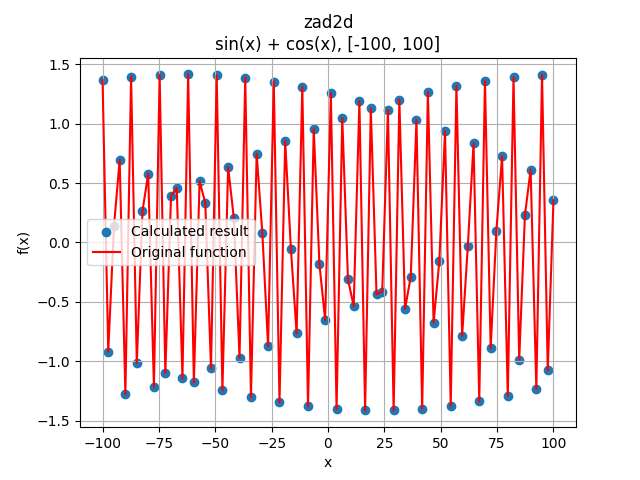
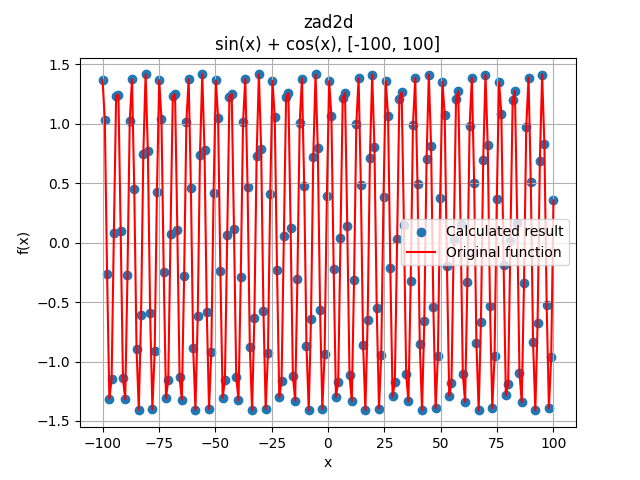
use click for arguments

Changed region(s): [[0.125, 0.125, 0.9062, 0.875], [0.0625, 0.625, 0.125, 0.6562]]

diff --git a/plot_chart.py b/plot_chart.py
@@ -3,6 +3,7 @@ import matplotlib.pyplot as plt
 import numpy as np
 import make_problem
 import inspect
+from tinygp_eval import tinygp_eval
 
 SOLUTION_DIR = "output"
 CHART_DIR = "charts"
@@ -37,15 +38,7 @@ DOMAINS = {
     "zad6d": (-1000, 1000)
 }
 
-def tinygp_eval(solution, X1, X2):
-    # imports are used inside the eval function
-    from numpy import sin, cos
-    # TODO implement protected division
-    return eval(solution)
-
-
-def plot_chart(zadname: str, suffix: str = ""):
-    resolution = 80
+def plot_chart(zadname: str, resolution: int, suffix: str = ""):
     funcname = zadname[:4]
     assert funcname in ["zad1", "zad2", "zad3", "zad4", "zad5", "zad6", "zad7"]
     original_func = getattr(make_problem, funcname)
@@ -151,14 +144,14 @@ def decrease_density(src: list, step: int) -> list:
         result.append(appendee)
     return result
 
-# import click
+import click
 
-# @click.command()
-# @click.argument("zadname")
-# @click.option("-r --resolution")
-# def plot_command(zadname):
-#     plot_chart(zadname)
+@click.command()
+@click.argument("zadname")
+@click.option("-r", "--resolution", default=80)
+@click.option("-s", "--suffix", default="")
+def plot_command(zadname, resolution, suffix):
+    plot_chart(zadname, resolution, suffix)
 
 if __name__ == "__main__":
-    assert len(sys.argv) in (2, 3)
-    plot_chart(*sys.argv[1:])
+    plot_command()

diff --git a/tinygp_eval.py b/tinygp_eval.py
@@ -1,0 +1,7 @@
+import numpy as np
+
+def tinygp_eval(solution: str, X1: np.ndarray, X2: np.ndarray):
+    # imports are used inside the eval function
+    from numpy import sin, cos
+    # TODO implement protected division
+    return eval(solution)
